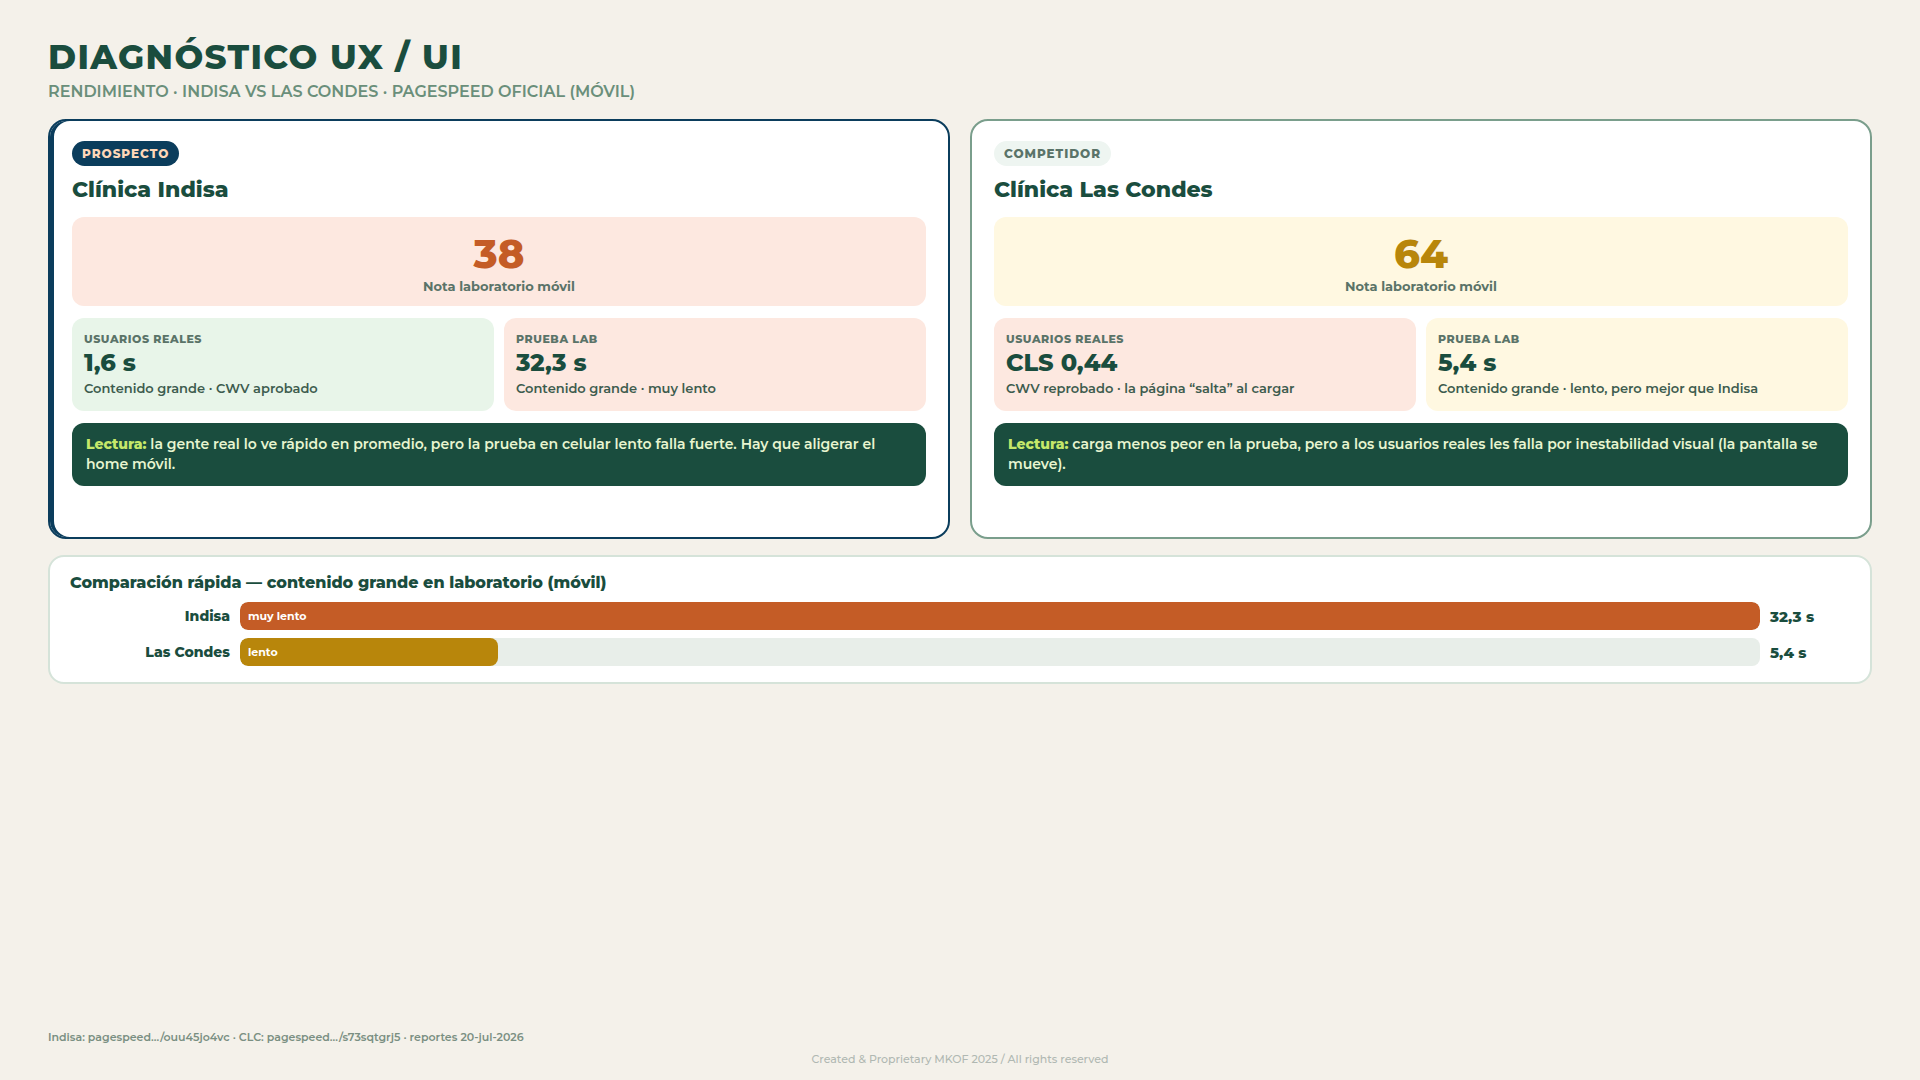
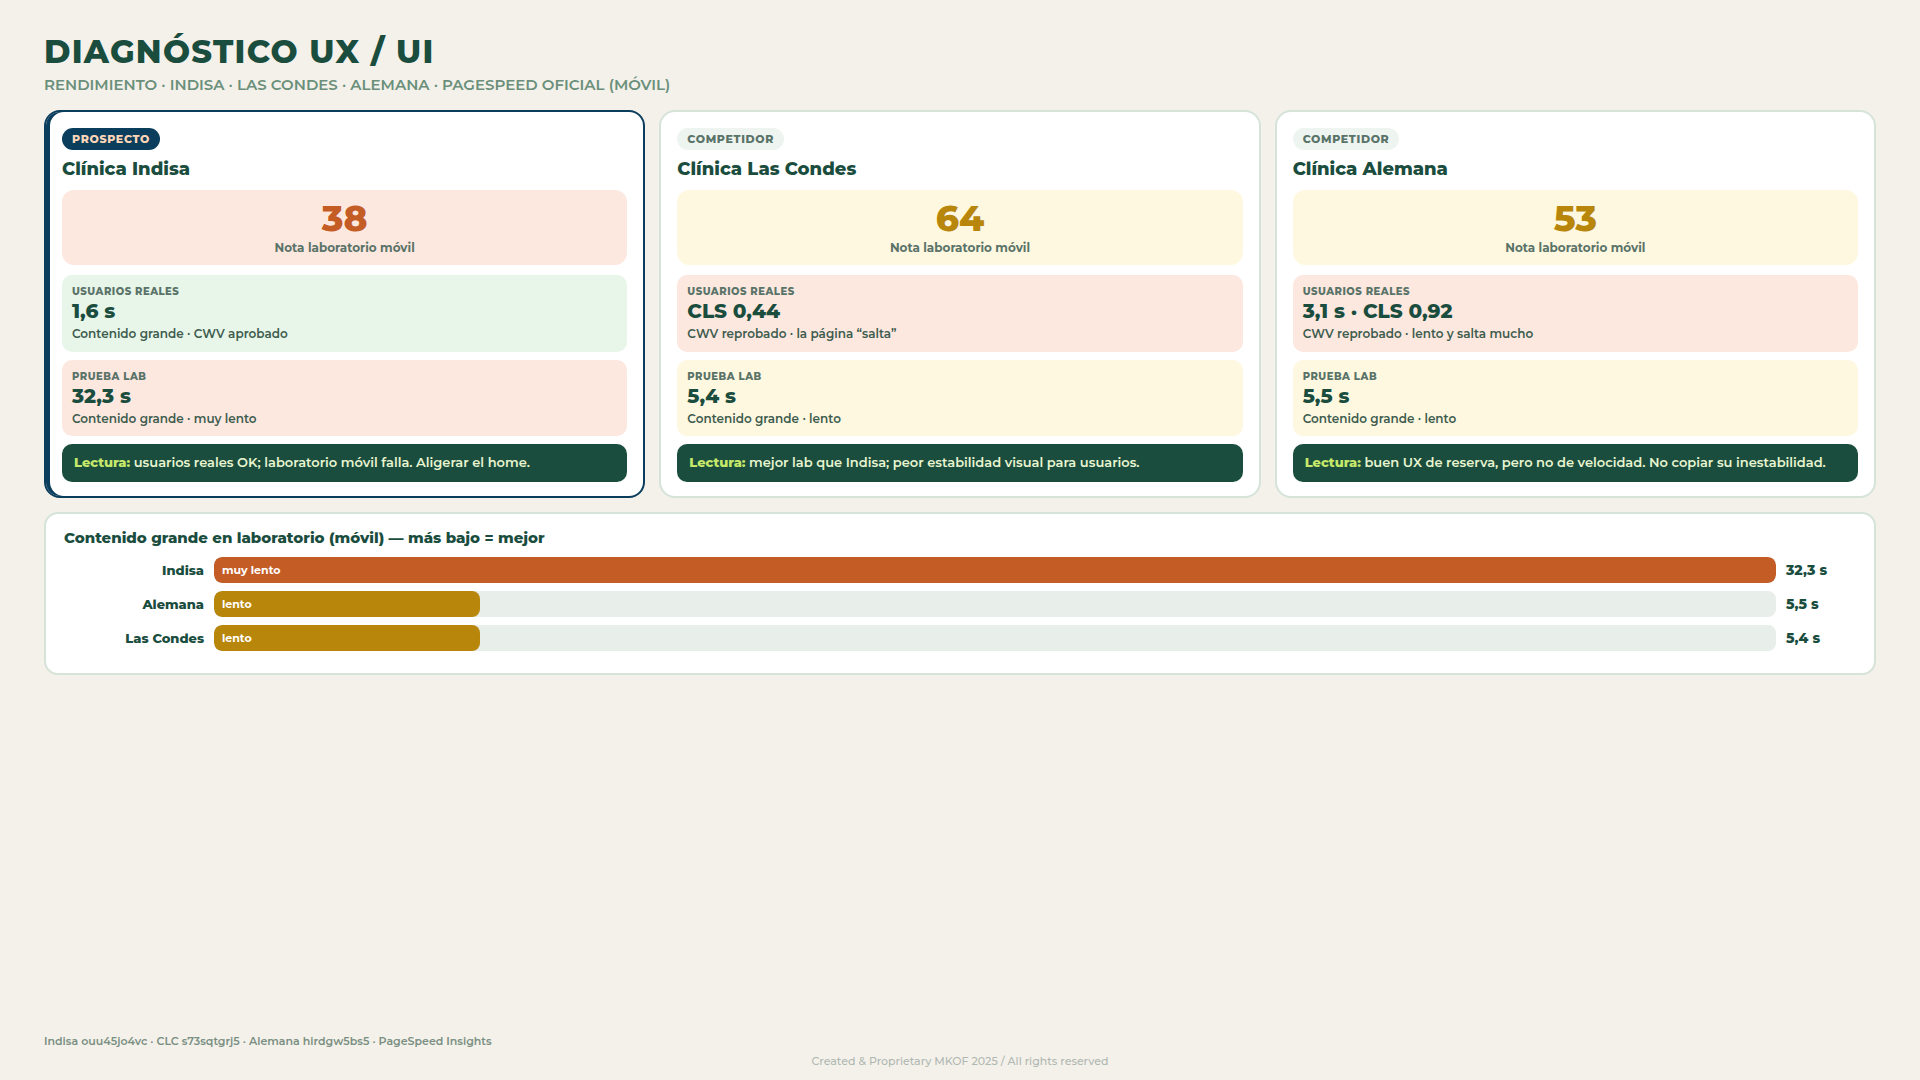
feat(mkof): PageSpeed oficial Alemana hirdgw5bs5
CWV móvil reprobado (LCP 3.1s · CLS 0.92) · lab score 53 LCP 5.5s.
Comparación tripartita en lámina rendimiento.

Changed region(s): [[0.0, 0.0306, 0.9688, 0.6417], [0.0312, 0.9472, 0.2812, 0.9778], [0.4375, 0.9778, 0.5938, 1.0]]

diff --git a/index/clientes/mkof/prospecto/clientes/clinica-indisa/laminas/web/03-rendimiento.html b/index/clientes/mkof/prospecto/clientes/clinica-indisa/laminas/web/03-rendimiento.html
@@ -2,141 +2,145 @@
 <html lang="es">
 <head>
   <meta charset="UTF-8">
-  <title>Rendimiento · Indisa vs CLC · PSI oficial</title>
+  <title>Rendimiento · Indisa vs CLC vs Alemana</title>
   <style>
     @import url('https://fonts.googleapis.com/css2?family=Montserrat:wght@500;600;700;800&display=swap');
     * { box-sizing: border-box; margin: 0; padding: 0; }
     body {
       width: 1920px; height: 1080px; background: #f4f1ea;
       font-family: Montserrat, system-ui, sans-serif; color: #1a4d3e;
-      padding: 36px 48px 28px; position: relative; overflow: hidden;
+      padding: 32px 44px 26px; position: relative; overflow: hidden;
     }
-    h1 { font-size: 34px; font-weight: 800; letter-spacing: 0.04em; }
-    .sub { font-size: 16px; font-weight: 600; color: #6a8f7a; margin-top: 4px; }
-    .foot { position: absolute; bottom: 14px; left: 0; right: 0; text-align: center; font-size: 11px; color: #b0b8b2; }
-    .fuente { position: absolute; bottom: 36px; left: 48px; right: 48px; font-size: 11px; color: #7a8f82; font-weight: 600; }
+    h1 { font-size: 32px; font-weight: 800; letter-spacing: 0.04em; }
+    .sub { font-size: 15px; font-weight: 600; color: #6a8f7a; margin-top: 4px; }
+    .foot { position: absolute; bottom: 12px; left: 0; right: 0; text-align: center; font-size: 11px; color: #b0b8b2; }
+    .fuente { position: absolute; bottom: 32px; left: 44px; right: 44px; font-size: 11px; color: #7a8f82; font-weight: 600; }
 
-    .grid { display: grid; grid-template-columns: 1fr 1fr; gap: 20px; margin-top: 18px; }
+    .grid { display: grid; grid-template-columns: 1fr 1fr 1fr; gap: 14px; margin-top: 16px; }
     .card {
-      background: #fff; border: 2px solid #d5e3d9; border-radius: 18px;
-      padding: 20px 22px; min-height: 420px;
+      background: #fff; border: 2px solid #d5e3d9; border-radius: 16px;
+      padding: 16px 16px 14px; min-height: 380px;
     }
     .card.indisa { border-color: #0b3d5c; box-shadow: inset 4px 0 0 #0b3d5c; }
-    .card.clc { border-color: #7a9e8c; }
     .etag {
-      display: inline-block; font-size: 12px; font-weight: 800; letter-spacing: 0.08em;
-      padding: 5px 10px; border-radius: 999px; margin-bottom: 10px;
+      display: inline-block; font-size: 11px; font-weight: 800; letter-spacing: 0.06em;
+      padding: 4px 10px; border-radius: 999px; margin-bottom: 8px;
     }
     .indisa .etag { background: #0b3d5c; color: #ffd7b8; }
-    .clc .etag { background: #eef5f1; color: #5a7368; }
-    .card h2 { font-size: 22px; font-weight: 800; margin-bottom: 14px; }
+    .comp .etag { background: #eef5f1; color: #5a7368; }
+    .card h2 { font-size: 18px; font-weight: 800; margin-bottom: 10px; }
 
-    .metric {
-      display: grid; grid-template-columns: 1fr 1fr; gap: 10px; margin-bottom: 12px;
-    }
-    .box {
-      border-radius: 12px; padding: 14px 12px;
-    }
+    .score { text-align: center; border-radius: 12px; padding: 10px; margin-bottom: 10px; }
+    .score .n { font-size: 36px; font-weight: 800; line-height: 1; }
+    .score .l { font-size: 12px; font-weight: 700; color: #5a7368; margin-top: 4px; }
+    .score.malo { background: #fde8e0; } .score.malo .n { color: #c45c26; }
+    .score.medio { background: #fff8e1; } .score.medio .n { color: #b8860b; }
+
+    .box { border-radius: 10px; padding: 10px 10px; margin-bottom: 8px; }
     .box.ok { background: #e8f5e9; }
     .box.bad { background: #fde8e0; }
     .box.warn { background: #fff8e1; }
-    .box .k { font-size: 11px; font-weight: 800; letter-spacing: 0.05em; color: #5a7368; margin-bottom: 4px; }
-    .box .v { font-size: 24px; font-weight: 800; line-height: 1.1; }
-    .box .s { font-size: 13px; font-weight: 600; color: #3d5c4e; margin-top: 4px; line-height: 1.3; }
-
-    .score {
-      text-align: center; border-radius: 12px; padding: 12px; margin-bottom: 12px;
-    }
-    .score .n { font-size: 40px; font-weight: 800; }
-    .score .l { font-size: 13px; font-weight: 700; color: #5a7368; }
-    .score.malo { background: #fde8e0; }
-    .score.malo .n { color: #c45c26; }
-    .score.medio { background: #fff8e1; }
-    .score.medio .n { color: #b8860b; }
+    .box .k { font-size: 10px; font-weight: 800; letter-spacing: 0.05em; color: #5a7368; margin-bottom: 2px; }
+    .box .v { font-size: 20px; font-weight: 800; line-height: 1.15; }
+    .box .s { font-size: 12px; font-weight: 600; color: #3d5c4e; margin-top: 3px; line-height: 1.3; }
 
     .nota {
-      background: #1a4d3e; color: #e8f5d0; border-radius: 12px;
-      padding: 12px 14px; font-size: 14px; font-weight: 600; line-height: 1.4;
+      background: #1a4d3e; color: #e8f5d0; border-radius: 10px;
+      padding: 10px 12px; font-size: 13px; font-weight: 600; line-height: 1.35;
     }
     .nota b { color: #c6e86a; }
 
     .abajo {
-      margin-top: 16px; background: #fff; border: 2px solid #d5e3d9; border-radius: 16px;
-      padding: 16px 20px;
+      margin-top: 14px; background: #fff; border: 2px solid #d5e3d9; border-radius: 14px;
+      padding: 14px 18px;
     }
-    .abajo h3 { font-size: 16px; font-weight: 800; margin-bottom: 10px; }
-    .bars { display: grid; gap: 8px; }
-    .bar-row { display: grid; grid-template-columns: 160px 1fr 80px; gap: 10px; align-items: center; }
-    .bar-row .name { font-size: 14px; font-weight: 800; text-align: right; }
-    .track { height: 28px; background: #e8eee9; border-radius: 8px; overflow: hidden; }
+    .abajo h3 { font-size: 15px; font-weight: 800; margin-bottom: 10px; }
+    .bar-row { display: grid; grid-template-columns: 140px 1fr 70px; gap: 10px; align-items: center; margin-bottom: 8px; }
+    .bar-row .name { font-size: 13px; font-weight: 800; text-align: right; }
+    .track { height: 26px; background: #e8eee9; border-radius: 8px; overflow: hidden; }
     .fill { height: 100%; border-radius: 8px; font-size: 11px; font-weight: 700; color: #fff; display: flex; align-items: center; padding-left: 8px; }
     .fill.malo { background: #c45c26; }
     .fill.medio { background: #b8860b; }
-    .fill.ok { background: #2f6b52; }
-    .bar-row .num { font-size: 15px; font-weight: 800; }
+    .bar-row .num { font-size: 14px; font-weight: 800; }
   </style>
 </head>
 <body>
   <h1>DIAGNÓSTICO UX / UI</h1>
-  <div class="sub">RENDIMIENTO · INDISA VS LAS CONDES · PAGESPEED OFICIAL (MÓVIL)</div>
+  <div class="sub">RENDIMIENTO · INDISA · LAS CONDES · ALEMANA · PAGESPEED OFICIAL (MÓVIL)</div>
 
   <div class="grid">
     <div class="card indisa">
       <div class="etag">PROSPECTO</div>
       <h2>Clínica Indisa</h2>
       <div class="score malo"><div class="n">38</div><div class="l">Nota laboratorio móvil</div></div>
-      <div class="metric">
-        <div class="box ok">
-          <div class="k">USUARIOS REALES</div>
-          <div class="v">1,6 s</div>
-          <div class="s">Contenido grande · CWV aprobado</div>
-        </div>
-        <div class="box bad">
-          <div class="k">PRUEBA LAB</div>
-          <div class="v">32,3 s</div>
-          <div class="s">Contenido grande · muy lento</div>
-        </div>
+      <div class="box ok">
+        <div class="k">USUARIOS REALES</div>
+        <div class="v">1,6 s</div>
+        <div class="s">Contenido grande · CWV aprobado</div>
       </div>
-      <div class="nota"><b>Lectura:</b> la gente real lo ve rápido en promedio, pero la prueba en celular lento falla fuerte. Hay que aligerar el home móvil.</div>
+      <div class="box bad">
+        <div class="k">PRUEBA LAB</div>
+        <div class="v">32,3 s</div>
+        <div class="s">Contenido grande · muy lento</div>
+      </div>
+      <div class="nota"><b>Lectura:</b> usuarios reales OK; laboratorio móvil falla. Aligerar el home.</div>
     </div>
 
-    <div class="card clc">
+    <div class="card comp">
       <div class="etag">COMPETIDOR</div>
       <h2>Clínica Las Condes</h2>
       <div class="score medio"><div class="n">64</div><div class="l">Nota laboratorio móvil</div></div>
-      <div class="metric">
-        <div class="box bad">
-          <div class="k">USUARIOS REALES</div>
-          <div class="v">CLS 0,44</div>
-          <div class="s">CWV reprobado · la página “salta” al cargar</div>
-        </div>
-        <div class="box warn">
-          <div class="k">PRUEBA LAB</div>
-          <div class="v">5,4 s</div>
-          <div class="s">Contenido grande · lento, pero mejor que Indisa</div>
-        </div>
+      <div class="box bad">
+        <div class="k">USUARIOS REALES</div>
+        <div class="v">CLS 0,44</div>
+        <div class="s">CWV reprobado · la página “salta”</div>
       </div>
-      <div class="nota"><b>Lectura:</b> carga menos peor en la prueba, pero a los usuarios reales les falla por inestabilidad visual (la pantalla se mueve).</div>
+      <div class="box warn">
+        <div class="k">PRUEBA LAB</div>
+        <div class="v">5,4 s</div>
+        <div class="s">Contenido grande · lento</div>
+      </div>
+      <div class="nota"><b>Lectura:</b> mejor lab que Indisa; peor estabilidad visual para usuarios.</div>
+    </div>
+
+    <div class="card comp">
+      <div class="etag">COMPETIDOR</div>
+      <h2>Clínica Alemana</h2>
+      <div class="score medio"><div class="n">53</div><div class="l">Nota laboratorio móvil</div></div>
+      <div class="box bad">
+        <div class="k">USUARIOS REALES</div>
+        <div class="v">3,1 s · CLS 0,92</div>
+        <div class="s">CWV reprobado · lento y salta mucho</div>
+      </div>
+      <div class="box warn">
+        <div class="k">PRUEBA LAB</div>
+        <div class="v">5,5 s</div>
+        <div class="s">Contenido grande · lento</div>
+      </div>
+      <div class="nota"><b>Lectura:</b> buen UX de reserva, pero no de velocidad. No copiar su inestabilidad.</div>
     </div>
   </div>
 
   <div class="abajo">
-    <h3>Comparación rápida — contenido grande en laboratorio (móvil)</h3>
-    <div class="bars">
-      <div class="bar-row">
-        <div class="name">Indisa</div>
-        <div class="track"><div class="fill malo" style="width:100%">muy lento</div></div>
-        <div class="num">32,3 s</div>
-      </div>
-      <div class="bar-row">
-        <div class="name">Las Condes</div>
-        <div class="track"><div class="fill medio" style="width:17%">lento</div></div>
-        <div class="num">5,4 s</div>
-      </div>
+    <h3>Contenido grande en laboratorio (móvil) — más bajo = mejor</h3>
+    <div class="bar-row">
+      <div class="name">Indisa</div>
+      <div class="track"><div class="fill malo" style="width:100%">muy lento</div></div>
+      <div class="num">32,3 s</div>
+    </div>
+    <div class="bar-row">
+      <div class="name">Alemana</div>
+      <div class="track"><div class="fill medio" style="width:17%">lento</div></div>
+      <div class="num">5,5 s</div>
+    </div>
+    <div class="bar-row">
+      <div class="name">Las Condes</div>
+      <div class="track"><div class="fill medio" style="width:17%">lento</div></div>
+      <div class="num">5,4 s</div>
     </div>
   </div>
 
-  <div class="fuente">Indisa: pagespeed…/ouu45jo4vc · CLC: pagespeed…/s73sqtgrj5 · reportes 20-jul-2026</div>
+  <div class="fuente">Indisa ouu45jo4vc · CLC s73sqtgrj5 · Alemana hirdgw5bs5 · PageSpeed Insights</div>
   <div class="foot">Created & Proprietary MKOF 2025 / All rights reserved</div>
 </body>
 </html>
